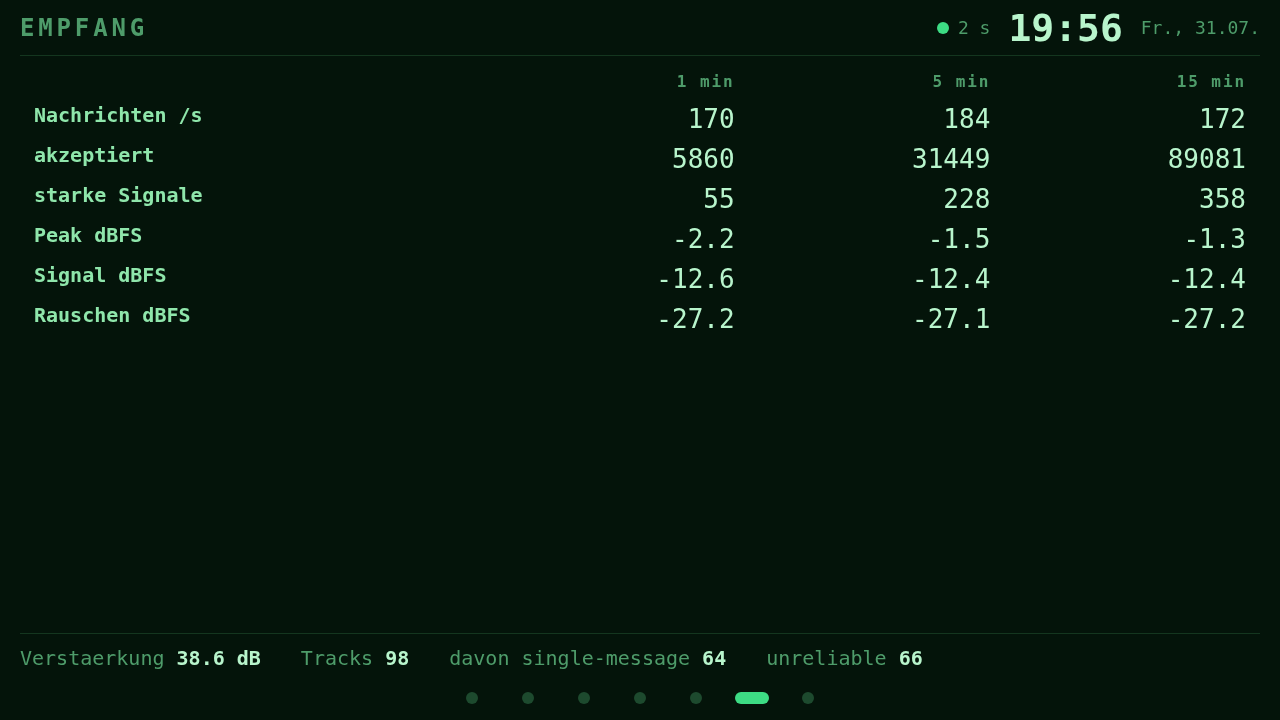
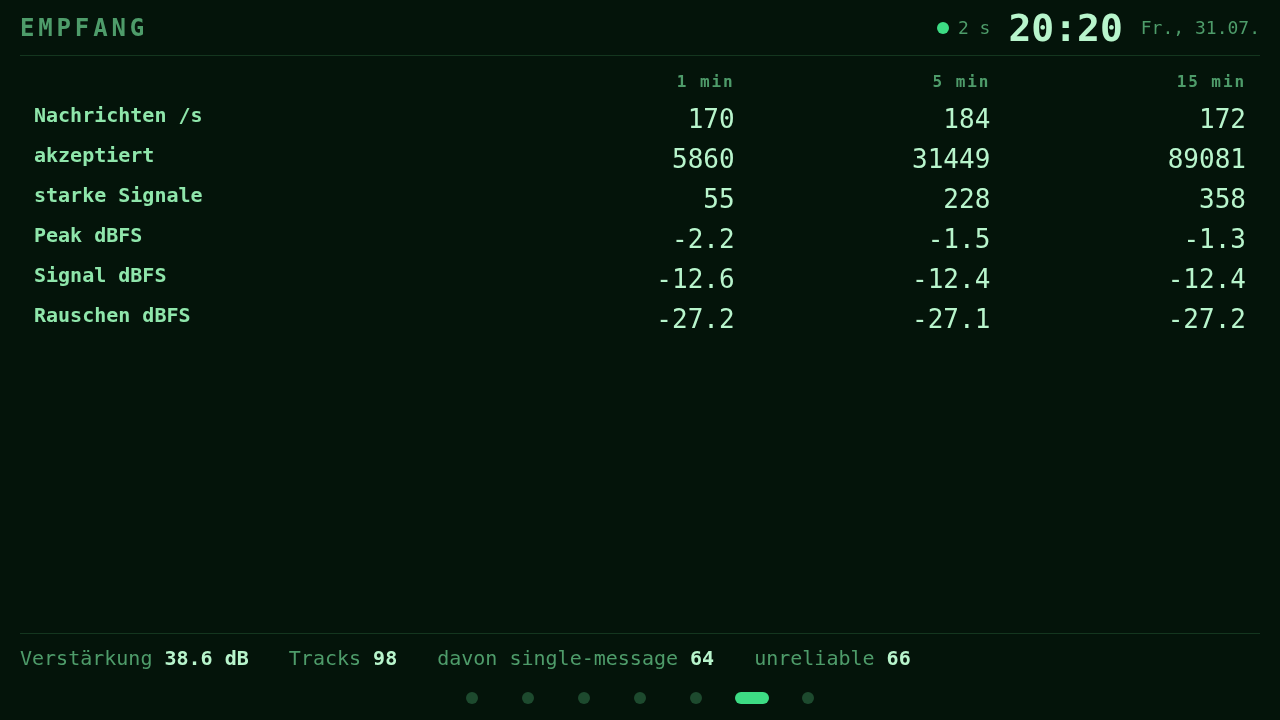
Achsenlabel und Verstaerkung behoben, beide mit rotem Test zuvor
HOEHENPROFIL

Die Beschriftung des aeussersten Entfernungsrings stand ausserhalb der
Leinwand. Der aeusserste Ring ist per Konstruktion immer gleich der
Reichweite, liegt also bei x = 692 von 700; das Label ragte 36,1 px hinaus,
in jeder der drei Stufen. Im Foto war von "50 NM" die "5" uebrig.

Dieselbe Fehlerklasse wie EDFJ am Radarrand am 27.07. -- dort weicht die
Kennung laengst auf die Seite aus, auf der Platz ist. Das Geschwister auf der
Nachbarseite wurde damals nicht mitgezogen. ringBeschriftung() wendet jetzt
dieselbe Regel an.

Der Ueberstand ist gerechnet, nicht geschaetzt: Zeichenbreite per
getComputedTextLength() im Chromium des Geraets gegen die echte console.css
gemessen -- 7,83 Nutzereinheiten je Zeichen. Geschaetzt waeren es 6 px
weniger gewesen.

Der erste Rot-Lauf konnte nur ein Importfehler sein, weil die Funktion noch
gar nicht existierte -- er belegt die fehlende Funktion, nie das Fehlverhalten.
Aussagekraeftig ist der zweite, in dem ringBeschriftung() mit dem ALTEN
Verhalten drinstand: "Beschriftung endet bei 736.1 > 700".

VERSTAERKUNG

"Verstaerkung" statt "Verstärkung" auf der Empfangsseite, dazu ein Waechter
ueber den sichtbaren UI-Text. Der Waechter hat sich zweimal selbst korrigiert:

- Die erste Fassung las Kommentare mit. Der Quelltext ist bewusst ohne
  Umlaute kommentiert -- sie beantwortete eine andere Frage als die gestellte.
- Die zweite verbrauchte beim Zerlegen das "<" des naechsten Tags. In
[…]

diff --git a/console/js/pages/profile.js b/console/js/pages/profile.js
@@ -77,6 +77,31 @@ export function punktY(altFt) {
   return BILD.rand + (1 - altFt / FL_MAX) * (BILD.hoehe - 2 * BILD.rand);
 }
 
+// Breite eines Zeichens der Achsenschrift in Nutzereinheiten des viewBox.
+// GEMESSEN, nicht geschaetzt: getComputedTextLength() im Chromium des
+// Geraets gegen die echte console.css ergab 7,83 fuer "M" und 39,14 fuer
+// "50 NM" (13px ui-monospace). Eine geschaetzte Breite haette den Ueberstand
+// unten um 6 px zu klein gerechnet.
+export const ZEICHEN_PX = 7.83;
+
+// Wo steht die Beschriftung eines Entfernungsrings?
+//
+// Rein und exportiert, aus demselben Grund wie punktX: In der Render-Closure
+// hat monatelang niemand gesehen, dass der aeusserste Ring seine Beschriftung
+// aus dem Bild schiebt.
+// Sie weicht auf die Seite aus, auf der Platz ist -- dieselbe Regel, die das
+// Radar seit dem 27.07. fuer Flugplatzkennungen anwendet (radar.js,
+// passtRechts). Sie war dort noetig, weil EDFJ am oestlichen Rand bis auf das
+// J abgeschnitten war; hier ist es der aeusserste Ring, der per Konstruktion
+// IMMER auf der Reichweite sitzt und damit immer am Rand steht.
+export function ringBeschriftung(nm, rangeNm) {
+  const x = punktX(nm, rangeNm);
+  const breite = `${nm} NM`.length * ZEICHEN_PX;
+  return x + 5 + breite <= BILD.breite
+    ? { x: x + 5, anchor: 'start' }
+    : { x: x - 5, anchor: 'end' };
+}
+
 // Eine Stelle, an der die Reichweite des Seitenrisses herkommt. Solange es
 // zwei gab (Config hier, Ansicht im Radar), konnten sie auseinanderlaufen.
 // Kein Rueckfall auf die Config: console.js reicht sicht bei mount/onEnter/
@@ -118,7 +143,9 @@ registerPage({
     for (const ring of sichtbareRinge(sicht.rings_nm, rangeNm)) {
       const x = punktX(ring, rangeNm);
       teile.push(`<line class="g-v" x1="${x}" y1="0" x2="${x}" y2="${BILD.hoehe}"/>`);
-      teile.push(`<text class="g-t" x="${x + 5}" y="${BILD.hoehe - 6}">${ring} NM</text>`);
+      const b = ringBeschriftung(ring, rangeNm);
+      teile.push(`<text class="g-t" x="${b.x.toFixed(1)}" text-anchor="${b.anchor}"`
+        + ` y="${BILD.hoehe - 6}">${ring} NM</text>`);
     }
     for (const p of r.punkte) {
       const x = punktX(p.nm, rangeNm);

diff --git a/console/js/pages/stats.js b/console/js/pages/stats.js
@@ -57,7 +57,7 @@ registerPage({
         </tbody>
       </table>
       <div class="stats-foot">
-        <span>Verstaerkung <b>${n(s.gain)} dB</b></span>
+        <span>Verstärkung <b>${n(s.gain)} dB</b></span>
         <span>Tracks <b>${s.tracks?.all ?? '—'}</b></span>
         <span>davon single-message <b>${s.tracks?.single_message ?? '—'}</b></span>
         <span>unreliable <b>${s.tracks?.unreliable ?? '—'}</b></span>

diff --git a/docs/messungen/2026-07-31-fotosession.md b/docs/messungen/2026-07-31-fotosession.md
@@ -3,7 +3,8 @@
 > 31.07.2026 · Gerät `adsapp01` · Chromium 150.0.7871.181 (Debian 13, aarch64)
 > Anlaß: Bilder für die Veröffentlichung; Vorbedingung war [Spec 11](2026-07-31-spec-11-frischeanzeige.md)
 > Ergebnis: **sieben Bilder in `docs/bilder/`**, beide Gegenproben grün und beide
-> Detektoren nachweislich rot-fähig. **Zwei Darstellungsfehler gefunden**, siehe unten.
+> Detektoren nachweislich rot-fähig. **Zwei Darstellungsfehler gefunden und behoben**,
+> beide mit einem Test, der vorher rot war — siehe unten.
 
 ## Warum synthetisch
 
@@ -105,21 +106,47 @@ Der erste Entwurf dieses Detektors suchte das GPS-Tag als Byte-Muster und löste
 Kalibrierung **nicht** aus, obwohl GPS drinstand — ein Zweig, der ohne den erzwungenen
 Fehlerfall nie betreten worden wäre. Er parst den TIFF-Kopf jetzt wirklich.
 
-## Zwei Darstellungsfehler, die dabei aufgefallen sind
+## Zwei Darstellungsfehler, die dabei aufgefallen sind — und behoben wurden
 
-**1. Höhenprofil: das äußerste Achsenlabel steht außerhalb der Leinwand.** `profile.js:121`
-zeichnet die Ringbeschriftung stur bei `x + 5`. Der äußerste Ring ist per Konstruktion immer
-gleich der Reichweite, liegt also bei x = 692 von 700 — das Label `50 NM` beginnt bei 697,
-braucht rund 33 px und ragt **30 px** hinaus. Gerechnet für alle drei Stufen: 10, 50 und 80 NM
-ergeben denselben Überstand, der Fehler tritt also **immer** auf. Im Bild ist von `50 NM` nur
-die `5` übrig.
+**1. Höhenprofil: das äußerste Achsenlabel steht außerhalb der Leinwand.** `profile.js`
+zeichnete die Ringbeschriftung stur bei `x + 5`. Der äußerste Ring ist per Konstruktion immer
+gleich der Reichweite, liegt also bei x = 692 von 700 — das Label `50 NM` beginnt bei 697 und
+ragt **36,1 px** hinaus. Der Überstand ist gerechnet, nicht geschätzt: Die Zeichenbreite wurde
+mit `getComputedTextLength()` im Chromium des Geräts gegen die echte `console.css` gemessen —
+**7,83** Nutzereinheiten je Zeichen, `50 NM` also 39,14. Eine geschätzte Breite hätte den
+Überstand um 6 px zu klein gerechnet.
 
-Das ist dieselbe Fehlerklasse wie EDFJ am Radarrand am 27.07. — dort weicht die Beschriftung
-inzwischen auf die Seite aus, auf der Platz ist (`radar.js`, `passtRechts`). Das Geschwister
-auf der Nachbarseite ist damals nicht mitgezogen worden.
+Für alle drei Stufen gerechnet: 10, 50 und 80 NM ergeben denselben Überstand, der Fehler trat
+also **immer** auf. Im Bild war von `50 NM` nur die `5` übrig.
 
-**2. `Verstaerkung` statt `Verstärkung`** auf der Empfangsseite (`stats.js:60`). Einziger
-Digraph im sichtbaren UI-Text; `Daemon` daneben ist ein Fachbegriff und bleibt.
+Dieselbe Fehlerklasse wie EDFJ am Radarrand am 27.07. — dort weicht die Beschriftung längst
+auf die Seite aus, auf der Platz ist (`radar.js`, `passtRechts`). Das Geschwister auf der
+Nachbarseite war damals nicht mitgezogen worden.
+
+**Behoben** mit `ringBeschriftung()` als reiner Funktion. Der erste Rot-Lauf konnte nur ein
+Importfehler sein (die Funktion gab es noch nicht) und belegt nichts; aussagekräftig ist der
+zweite, in dem die Funktion mit dem **alten** Verhalten drinstand: `Beschriftung endet bei
+736.1 > 700`. Danach grün.
+
+**2. `Verstaerkung` statt `Verstärkung`** auf der Empfangsseite. **Behoben**, mit einem
+Wächter über den sichtbaren UI-Text (`tests/test_ui_text.mjs`).
+
+Der Wächter hat sich zweimal selbst korrigiert, bevor er etwas taugte:
+
+- Die erste Fassung las **Kommentare** mit. Der Quelltext dieses Projekts ist bewußt ohne
+  Umlaute kommentiert — sie beantwortete also eine andere Frage als die gestellte.
+- Die zweite verbrauchte beim Zerlegen das `<` des nächsten Tags. In `stats.js` fraß der
+  Treffer auf `<div class="stats-foot">` genau das `<` von `<span>`, und `Verstaerkung` —
+  der Fall, dessentwegen der Test existiert — wurde übersprungen. **Der Test meldete grün,
+  während der Fehler dastand.** Aufgefallen ist das allein am eingebauten Kalibrierfall.
+
+Er prüft bewußt nur `ae`/`oe`: `ue` und `ss` kommen in korrektem Deutsch ständig vor
+(„Ste**ue**rung"), eine Blanko-Regel darauf fände vor allem sich selbst. Für solche Fälle
+gibt es eine explizite Wortliste.
+
+Als `grep` war der Test nicht zu haben: `grep -E '>[^<>]*ae[^<>]*<'` findet die Zeile auf
+diesem Rechner **nicht**, dieselbe Regex in Python schon — dieselbe Werkzeugfalle wie
+`git grep -o` am 31.07.
 
 ## Der Wächter hat mich selbst erwischt
 
@@ -148,10 +175,12 @@ sind identisch. Reproduzierbar ist die Szene, nicht das Einzelbild.
 
 ## Offen für die Veröffentlichung
 
-- Die beiden Fehler oben sind Einzeiler, aber sie stehen im Bild. Vor Schritt 3 zu entscheiden.
+- Beide Fehler sind behoben, `hoehenprofil.png` und `empfang.png` neu aufgenommen. Der Fix
+  liegt aber **nur im Repo** — das Panel zeigt weiter den alten Stand, bis regulär ausgerollt
+  wird.
 - Die Systemseite zeigt **72,1 °C** und damit orange, weil das die eigene Abnahmegrenze ist.
-  Der Wert ist echt gemessen und die Markenlogik arbeitet korrekt — die Frage ist nur, ob das
-  ins README soll. Ein Bild bei kühlerem Gerät wäre in Minuten neu geschossen.
+  Bleibt so: Der Wert ist echt gemessen, die Markenlogik arbeitet korrekt, und im Raum sind
+  30,5 °C — das Bild zeigt schlicht, daß es warm ist.
 - Der Flugplatz-Layer läßt sich nur zur Laufzeit am Zahnrad abschalten, nicht über
   `console.json`. Ein aufgeräumtes Radarbild ohne Flugplätze ist headless deshalb nicht zu
   bekommen, ohne den Dialog zu bedienen.
